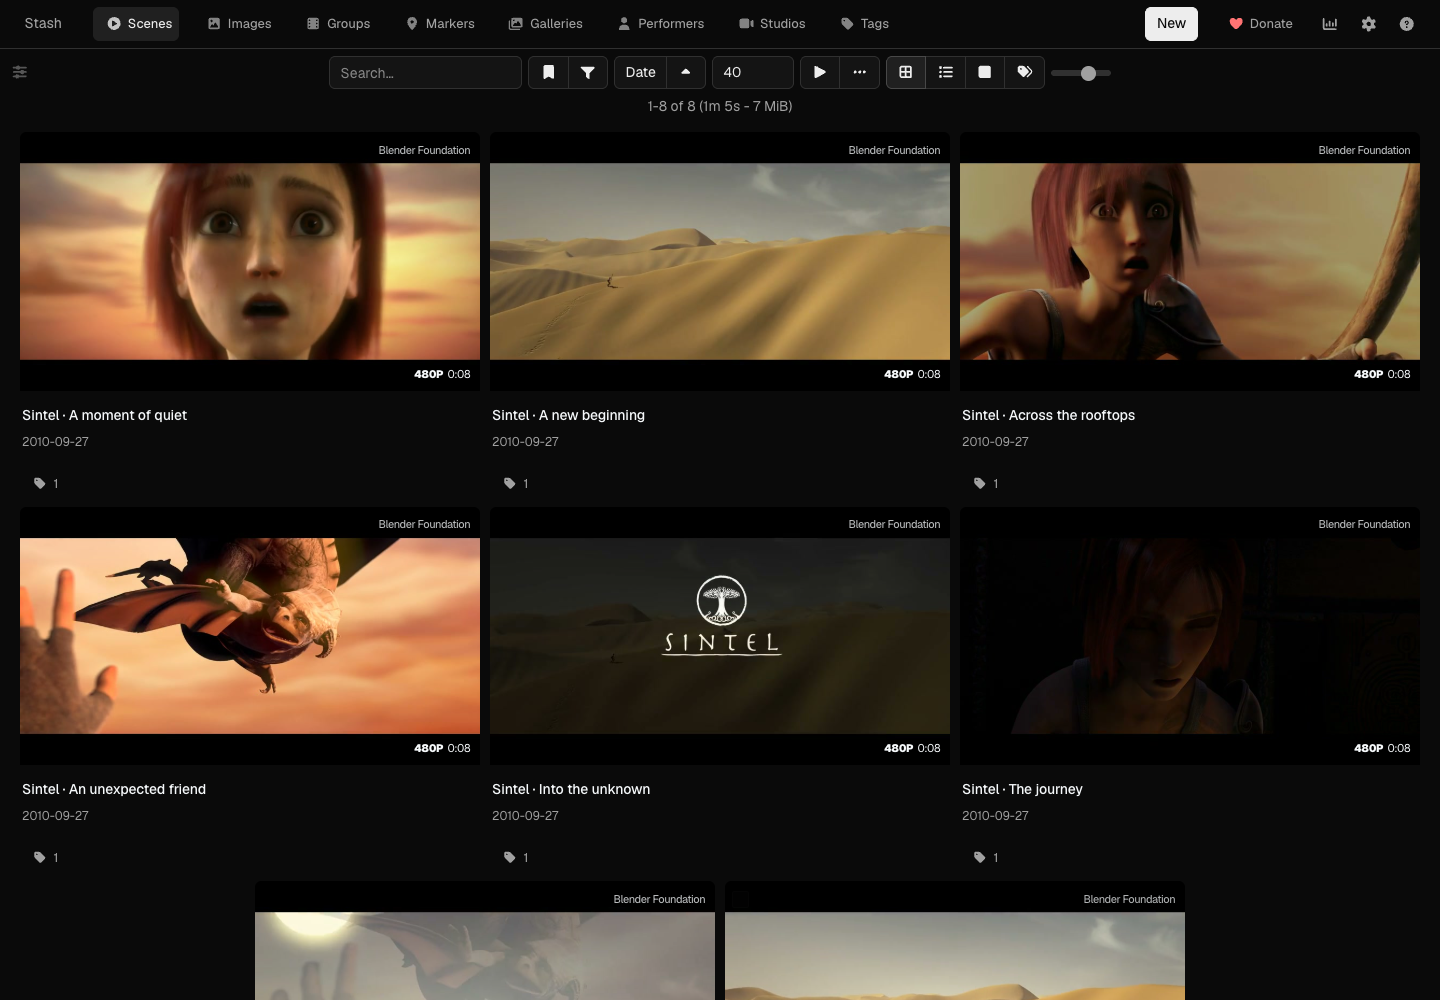
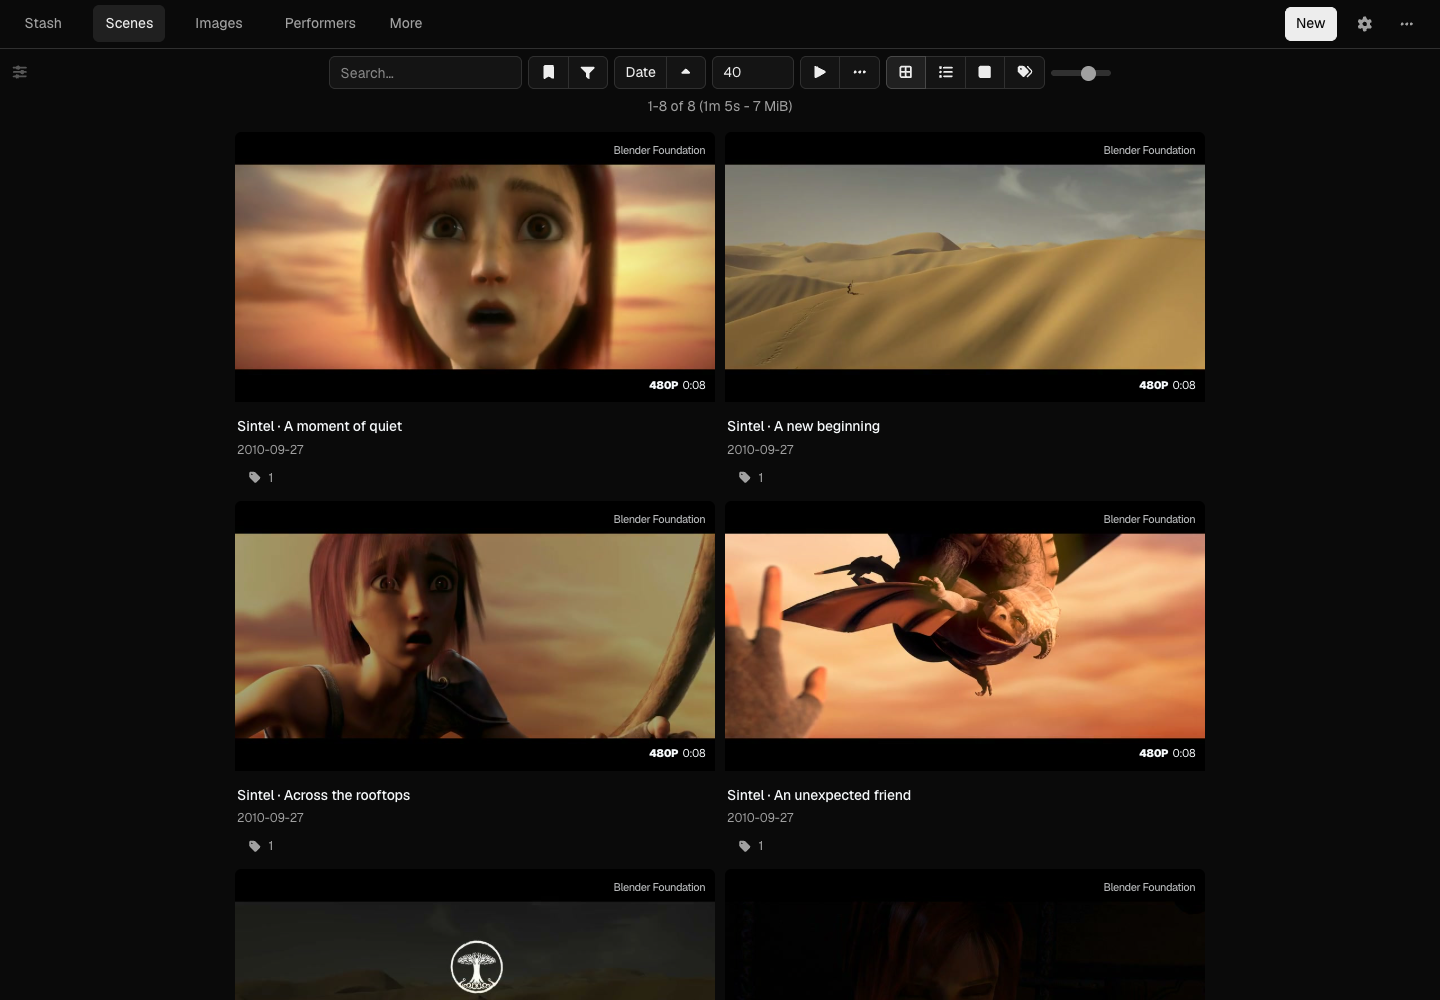
feat: simplify native navigation and focus scene playback

diff --git a/tests/browser.js b/tests/browser.js
@@ -29,7 +29,45 @@ export default async function testTheme(page, options) {
     check('local font decoded', await page.evaluate(() => document.fonts.check('14px "Stash Geist"')));
     const card = await colors('.scene-card');
     check('cards have no chrome', card.background === 'rgba(0, 0, 0, 0)' && card.border === '0px', card);
+    const emptyMetadataGap = await page.locator('.scene-card').first().evaluate(card => {
+      const date = card.querySelector('.scene-card__date').getBoundingClientRect();
+      const tags = card.querySelector('.card-popovers').getBoundingClientRect();
+      return tags.top - date.bottom;
+    });
+    check('empty metadata does not reserve space', emptyMetadataGap <= 12, emptyMetadataGap);
     check('desktop has no horizontal overflow', await noOverflow());
+    const navigation = page.locator('.minimal-navigation');
+    check('primary native navigation visible', await navigation.getByRole('link', { name: 'Scenes', exact: true }).isVisible()
+      && await navigation.getByRole('link', { name: 'Images', exact: true }).isVisible()
+      && await navigation.getByRole('link', { name: 'Performers', exact: true }).isVisible());
+    await navigation.getByRole('button', { name: 'More', exact: true }).click();
+    for (const name of ['Groups', 'Markers', 'Galleries', 'Studios', 'Tags']) {
+      check(name + ' remains available', await navigation.getByRole('link', { name, exact: true }).isVisible());
+    }
+    await navigation.getByRole('link', { name: 'Tags', exact: true }).click();
+    await page.waitForURL(url => url.pathname === '/tags');
+    check('More links use native routing', page.url().split('?')[0].endsWith('/tags'));
+    await page.goto(options.baseURL + '/scenes?z=2');
+    await page.locator('.scene-card').first().waitFor();
+    const utilities = page.locator('.navbar-buttons');
+    await utilities.getByRole('button', { name: 'More actions', exact: true }).click();
+    check('secondary utility actions visible', await utilities.getByRole('button', { name: 'Help', exact: true }).isVisible()
+      && await utilities.getByRole('button', { name: 'Statistics', exact: true }).isVisible()
+      && await utilities.getByRole('button', { name: 'Donate', exact: true }).isVisible());
+    await utilities.getByRole('button', { name: 'Statistics', exact: true }).click();
+    await page.waitForURL(url => url.pathname === '/stats');
+    check('Statistics uses native routing', page.url().split('?')[0].endsWith('/stats'));
+    for (const [name, route, more] of [['Images', '/images', false], ['Performers', '/performers', false],
+      ['Groups', '/groups', true], ['Markers', '/scenes/markers', true], ['Galleries', '/galleries', true],
+      ['Studios', '/studios', true], ['Tags', '/tags', true]]) {
+      if (more) await navigation.getByRole('button', { name: 'More', exact: true }).click();
+      await navigation.getByRole('link', { name, exact: true }).click();
+      await page.waitForURL(url => url.pathname === route);
+      check(name + ' page remains usable', await navigation.getByRole('button', { name: 'More', exact: true }).isVisible()
+        && await noOverflow());
+    }
+    await page.goto(options.baseURL + '/scenes?z=2');
+    await page.locator('.scene-card').first().waitFor();
     await page.screenshot({ path: options.reportDir + '/' + options.browser + '-library.png' });
     await page.locator('.sort-by-select .dropdown-toggle').click();
     const menu = await colors('.dropdown-menu.show');
@@ -41,13 +79,36 @@ export default async function testTheme(page, options) {
     check('keyboard focus visible', focus.outline === 'solid' && focus.color === 'rgb(82, 168, 255)', focus);
     await page.goto(options.baseURL + '/scenes/' + options.sceneId);
     await page.locator('video').first().waitFor();
+    await page.locator('.vjs-marker-tooltip').waitFor({ state: 'attached' });
     check('native video player remains available', await page.locator('video').count() > 0);
+    await page.getByRole('button', { name: 'Show scene details', exact: true }).waitFor();
+    check('scene details start collapsed', await page.locator('.scene-tabs').isHidden()
+      && await page.locator('.scene-player-container.expanded').count() === 1);
+    await page.getByRole('button', { name: 'Show scene details', exact: true }).click();
+    check('native detail panel can be reopened', await page.locator('.scene-tabs').isVisible());
+    await page.getByRole('button', { name: 'Hide scene details', exact: true }).click();
+    check('native detail panel closes', await page.locator('.scene-tabs').isHidden());
+    await page.locator('.vjs-big-play-button').click();
+    await page.waitForFunction(() => { const video = document.querySelector('video'); return video && !video.paused && video.currentTime > 0; });
+    check('native playback starts with details collapsed', await page.locator('.scene-tabs').isHidden());
+    await page.locator('.vjs-play-control').click();
     check('detail page has no horizontal overflow', await noOverflow());
     await page.screenshot({ path: options.reportDir + '/' + options.browser + '-detail.png' });
+    await page.goto(options.baseURL + '/scenes?z=2');
+    await page.locator('.scene-card').first().waitFor();
+    await page.locator('.scene-card .card-section-title').first().click();
+    await page.getByRole('button', { name: 'Show scene details', exact: true }).waitFor();
+    check('details collapse after native SPA navigation', await page.locator('.scene-tabs').isHidden());
+    await page.locator('.vjs-marker-tooltip').waitFor({ state: 'attached' });
     await page.goto(options.baseURL + '/settings?tab=plugins');
     await page.getByText('Stash Minimal', { exact: true }).first().waitFor();
     check('package appears in native settings', await page.getByText('Stash Minimal', { exact: true }).count() > 0);
     check('settings has no horizontal overflow', await noOverflow());
+    for (const tab of ['Interface', 'Tasks', 'System']) {
+      await page.getByRole('tab', { name: tab, exact: true }).click();
+      await page.getByRole('tabpanel', { name: tab, exact: true }).waitFor();
+      check(tab + ' settings remain usable', await noOverflow());
+    }
     await page.setViewportSize({ width: 390, height: 844 });
     await page.goto(options.baseURL + '/scenes?z=2');
     await page.locator('.scene-card').first().waitFor();
@@ -59,7 +120,18 @@ export default async function testTheme(page, options) {
     await page.locator('.navbar-collapse.show').waitFor();
     check('mobile navigation opens', await page.locator('.navbar-collapse.show').count() === 1);
     check('open mobile navigation has no overflow', await noOverflow());
-    await page.locator('.navbar-toggler').click();
+    check('mobile primary pages visible', await navigation.getByRole('link', { name: 'Scenes', exact: true }).isVisible());
+    await navigation.getByRole('button', { name: 'More', exact: true }).click();
+    check('mobile secondary pages visible', await navigation.getByRole('link', { name: 'Studios', exact: true }).isVisible());
+    await navigation.getByRole('link', { name: 'Studios', exact: true }).click();
+    await page.waitForURL(url => url.pathname === '/studios');
+    check('mobile More links work', page.url().split('?')[0].endsWith('/studios'));
+    await page.goto(options.baseURL + '/scenes/' + options.sceneId);
+    await page.getByRole('button', { name: 'Show scene details', exact: true }).waitFor();
+    check('mobile details start collapsed', await page.locator('.scene-tabs').isHidden());
+    await page.getByRole('button', { name: 'Show scene details', exact: true }).click();
+    check('mobile details remain accessible', await page.locator('.scene-tabs').isVisible());
+    check('mobile detail has no overflow', await noOverflow());
     await page.emulateMedia({ reducedMotion: 'reduce' });
     const duration = await page.locator('.btn').first().evaluate(el => getComputedStyle(el).transitionDuration);
     check('respects reduced motion', duration === '0s', duration);
@@ -67,6 +139,8 @@ export default async function testTheme(page, options) {
     return { browser: options.browser, passed: true, results };
   } catch (error) {
     await page.screenshot({ path: options.reportDir + '/' + options.browser + '-failure.png' });
-    return { browser: options.browser, passed: false, results, error: error.message, errors };
+    const navigation = await page.locator('.minimal-navigation').evaluateAll(items => items.map(el => ({ display: getComputedStyle(el).display,
+      children: [...el.querySelectorAll('a,button,.navbar-nav')].map(child => ({ tag: child.tagName, text: child.textContent, display: getComputedStyle(child).display })) })));
+    return { browser: options.browser, passed: false, results, url: page.url(), error: error.message, errors, navigation };
   }
 }

diff --git a/plugins/stash-minimal/minimal.css b/plugins/stash-minimal/minimal.css
@@ -54,6 +54,30 @@ hr, .border, .border-bottom, .border-top { border-color: var(--minimal-border) !
 .top-nav .btn.active { background: var(--minimal-hover); color: var(--minimal-text); }
 .top-nav .navbar-toggler { color: var(--minimal-text); border: 0; }
 .nav-menu-icon { opacity: .8; }
+.top-nav .navbar-collapse .minimal-navigation > .navbar-nav { display: flex; gap: 4px; align-items: center; }
+.top-nav .navbar-collapse > .navbar-nav { display: none !important; }
+.top-nav .navbar-buttons .nav-utility { display: flex; }
+.minimal-navigation .nav-link { width: auto; max-width: none; flex-basis: auto; }
+.minimal-navigation .nav-link .btn {
+  padding: 8px 12px !important;
+  min-height: 36px;
+  display: flex !important;
+  flex-direction: row !important;
+  gap: 8px;
+  font-size: 14px;
+}
+.minimal-navigation .navbar-nav > .nav-link .nav-menu-icon { display: none !important; }
+.minimal-navigation .dropdown-menu .nav-link { width: 100%; }
+.minimal-navigation .dropdown-menu .nav-link .btn { width: 100%; justify-content: flex-start !important; }
+.minimal-navigation .dropdown-menu .nav-menu-icon { margin: 0 !important; width: 14px; height: 14px; }
+.minimal-nav-more > .btn { text-decoration: none; }
+.minimal-nav-more .dropdown-item, .minimal-utility-menu .dropdown-item { padding: 0; }
+.minimal-utility-menu .dropdown-menu { min-width: 180px; }
+.minimal-utility-menu .dropdown-menu .nav-utility { display: block; }
+.minimal-utility-menu .dropdown-menu .btn { display: flex; align-items: center; gap: 10px; width: 100%; padding: 8px 10px; }
+.minimal-utility-menu > .dropdown-toggle::after { display: none; }
+.top-nav .navbar-buttons { align-items: center; gap: 4px; }
+.top-nav .navbar-buttons > .mr-2 { margin-right: 4px !important; }
 
 .btn {
   border-radius: var(--minimal-radius);
@@ -191,6 +215,8 @@ div.dropdown-menu .dropdown-item.active, div.react-select__menu .react-select__o
 .grid-card .card-section { padding: 10px 2px 0; }
 .grid-card .card-section-title { color: var(--minimal-text); font-size: 14px; line-height: 1.4; font-weight: 500; letter-spacing: -.01em; }
 .grid-card .card-section-title:hover { color: #fff; }
+.grid-card .card-section-title { margin: 0 0 4px; }
+.grid-card .scene-card__details, .grid-card .scene-marker-card__details, .grid-card .gallery-card__details { margin-bottom: 0; }
 .grid-card hr { display: none; }
 .grid-card .scene-card__date, .grid-card .scene-card__details, .grid-card .scene-card__description,
 .grid-card .file-path { color: var(--minimal-muted); font-size: 12px; }
@@ -207,6 +233,25 @@ div.dropdown-menu .dropdown-item.active, div.react-select__menu .react-select__o
 .badge-secondary, .tag-item, .tag-item a { background: var(--minimal-hover); color: var(--minimal-text); }
 .detail-body, .detail-header .detail-header-info { color: var(--minimal-text); }
 .detail-header .detail-header-image { background: transparent; }
+.scene-tabs.collapsed { display: none; }
+.scene-tabs { background: var(--minimal-bg); padding: 16px 24px; }
+.scene-tabs h3 { font-size: 22px; line-height: 1.25; margin-top: 20px; }
+.scene-subheader { font-size: 13px; color: var(--minimal-muted); }
+.scene-toolbar { padding: 12px 0; border-bottom: 1px solid var(--minimal-border); }
+.studio-logo .studio-name { font-size: 14px; font-weight: 500; }
+.scene-tabs .tab-content { padding-top: 16px; }
+.scene-divider.minimal-scene-divider { position: absolute; top: 64px; left: 0; z-index: 20; height: auto; width: auto; }
+.scene-divider.minimal-scene-divider .btn { width: 28px; height: 40px; padding: 0; background: var(--minimal-surface); color: var(--minimal-muted); border: 1px solid var(--minimal-border); border-left: 0; border-radius: 0 6px 6px 0; }
+.scene-divider.minimal-scene-divider .btn:hover { background: var(--minimal-hover); color: var(--minimal-text); }
+.scene-player-container.expanded { width: 100%; max-width: 100%; flex: 1 1 100%; }
+.scene-player-container .video-js { border-radius: 6px; overflow: hidden; }
+.scene-player-container .vjs-control-bar { background: #0a0a0ae6; }
+.scene-player-container .vjs-play-progress { background: #ededed; }
+.scene-player-container .vjs-load-progress { background: #666; }
+.scene-player-container .vjs-volume-level { background: #ededed; }
+.scene-player-container .vjs-big-play-button { width: 64px; height: 64px; line-height: 64px; margin: -32px 0 0 -32px; font-size: 28px; border: 0; background: #0a0a0a99; border-radius: 50%; }
+.scene-player-container .vjs-menu-content { background: var(--minimal-surface); border: 1px solid var(--minimal-border); border-radius: 6px; }
+.scene-player-container .vjs-menu-item.vjs-selected { background: var(--minimal-hover); color: var(--minimal-text); }
 
 .table { color: var(--minimal-text); }
 .table th, .table td, .table thead th { border-color: var(--minimal-border); }
@@ -225,7 +270,18 @@ div.dropdown-menu .dropdown-item.active, div.react-select__menu .react-select__o
 .filtered-list-toolbar input.zoom-slider::-moz-range-track { background: var(--minimal-border); }
 .filtered-list-toolbar input.zoom-slider::-moz-range-thumb { background: var(--minimal-muted); }
 
+@media (min-width: 1200px) {
+  .top-nav .navbar-collapse { overflow: visible; }
+}
+@media (max-width: 1199.98px) {
+  .minimal-navigation .navbar-nav { flex-direction: column; align-items: stretch; }
+  .minimal-navigation .nav-link .btn { width: 100%; justify-content: flex-start !important; min-height: 44px; }
+  .minimal-navigation .dropdown-menu { position: static; box-shadow: none; margin: 4px 0; }
+  .minimal-navigation .dropdown-toggle { min-height: 44px; width: 100%; text-align: left; }
+}
 @media (max-width: 767.98px) {
+  .scene-divider.minimal-scene-divider { top: 12px; }
+  .scene-tabs { padding: 16px; }
   .top-nav .navbar-collapse .btn { min-height: 44px; }
   .filtered-list-toolbar .btn, .pagination .btn { min-height: 40px; }
   .form-control, .custom-select, div.react-select__control { font-size: 16px; }

diff --git a/plugins/stash-minimal/minimal.js b/plugins/stash-minimal/minimal.js
@@ -1,0 +1,84 @@
+(function () {
+  const api = window.PluginApi;
+  const React = api.React;
+  const { Dropdown } = api.libraries.Bootstrap;
+  const { useLocation } = api.libraries.ReactRouterDOM;
+  const h = React.createElement;
+
+  function flatten(children) {
+    return React.Children.toArray(children).flatMap(child =>
+      child.type === React.Fragment ? flatten(child.props.children) : [child]);
+  }
+
+  function Navigation({ children, render, ...props }) {
+    const location = useLocation();
+    const items = flatten(children);
+    const primary = items.filter(child => ['/scenes', '/images', '/performers'].includes(child.props.eventKey));
+    const secondary = items.filter(child => !primary.includes(child));
+    const active = secondary.some(child => location.pathname === child.props.eventKey ||
+      location.pathname.startsWith(child.props.eventKey + '/'));
+    return h('div', { className: 'minimal-navigation' }, render({ ...props, children: [
+      ...primary,
+      secondary.length > 0 && h(Dropdown, { key: 'more', className: 'minimal-nav-more' },
+        h(Dropdown.Toggle, { variant: 'link', className: 'minimal' + (active ? ' active' : ''), id: 'minimal-nav-more' }, 'More'),
+        h(Dropdown.Menu, null, secondary.map(child => h(Dropdown.Item, { as: 'div', key: child.props.eventKey }, child))))
+    ] }));
+  }
+
+  function UtilityMenu({ children, render, ...props }) {
+    const items = flatten(children);
+    const isSecondary = child => child.props.to === '/stats' ||
+      child.props.href === 'https://opencollective.com/stashapp' ||
+      (typeof child.props.href === 'string' && child.props.href.endsWith('/logout')) ||
+      (child.type === api.libraries.Bootstrap.Button && typeof child.props.onClick === 'function');
+    const secondary = items.filter(isSecondary);
+    const primary = items.filter(child => !isSecondary(child));
+
+    function menuItem(child, index) {
+      const inner = React.isValidElement(child.props.children) ? child.props.children : child;
+      const label = inner.props.title;
+      const icon = React.Children.toArray(inner.props.children)[0];
+      const content = React.cloneElement(inner, {}, icon, h('span', null, label));
+      const item = inner === child ? content : React.cloneElement(child, {}, content);
+      return h(Dropdown.Item, { as: 'div', key: index }, item);
+    }
+
+    return render({ ...props, children: [...primary,
+      secondary.length > 0 && h(Dropdown, { key: 'actions', className: 'minimal-utility-menu' },
+        h(Dropdown.Toggle, { variant: 'link', className: 'minimal', 'aria-label': 'More actions', title: 'More actions' },
+          h(api.components.Icon, { icon: api.libraries.FontAwesomeSolid.faEllipsisH })),
+        h(Dropdown.Menu, { align: 'right' }, secondary.map(menuItem)))
+    ] });
+  }
+
+  function SceneFocus({ render, ...props }) {
+    React.useLayoutEffect(() => {
+      props.setCollapsed(true);
+    }, [props.scene.id, props.setCollapsed]);
+    const content = render(props);
+    const children = React.Children.map(content.props.children, child => {
+      if (!React.isValidElement(child)) return child;
+      if (child.props.className?.split(' ').includes('scene-tabs')) {
+        return React.cloneElement(child, { id: 'minimal-scene-details' });
+      }
+      if (child.props.className?.split(' ').includes('scene-divider')) {
+        const toggle = React.cloneElement(child.props.children, {
+          'aria-label': props.collapsed ? 'Show scene details' : 'Hide scene details',
+          'aria-expanded': !props.collapsed,
+          'aria-controls': 'minimal-scene-details',
+          title: props.collapsed ? 'Show scene details' : 'Hide scene details'
+        });
+        return React.cloneElement(child, { className: 'scene-divider minimal-scene-divider' }, toggle);
+      }
+      return child;
+    });
+    return React.cloneElement(content, {}, children);
+  }
+
+  function replace(name, component) {
+    api.patch.instead(name, (...args) => h(component, { ...args[0], render: args[args.length - 1] }));
+  }
+  replace('MainNavBar.MenuItems', Navigation);
+  replace('MainNavBar.UtilityItems', UtilityMenu);
+  replace('ScenePage', SceneFocus);
+})();

diff --git a/site/index.html b/site/index.html
@@ -2,7 +2,7 @@
 <html lang="en">
 <meta charset="utf-8">
 <meta name="viewport" content="width=device-width, initial-scale=1">
-<meta name="description" content="A quiet, compact dark theme for Stash. CSS only, with locally bundled Geist Sans.">
+<meta name="description" content="A minimal Stash interface with compact native menus, focused playback, and locally bundled Geist Sans.">
 <title>Stash Minimal</title>
 <style>
   :root{color-scheme:dark}*{box-sizing:border-box}body{margin:0;background:#0a0a0a;color:#ededed;font:16px/1.65 system-ui,sans-serif}main{max-width:1000px;margin:auto;padding:64px 24px}h1{font-size:clamp(32px,5vw,52px);line-height:1.1;letter-spacing:-.05em;margin:0 0 20px;font-weight:550}h2{font-size:20px;letter-spacing:-.025em;margin:40px 0 12px}p{max-width:620px;color:#a1a1a1}a{color:#ededed;text-underline-offset:4px}nav{display:flex;gap:24px;margin:24px 0 40px;font-size:14px}img{display:block;width:100%;height:auto;border-radius:6px;border:1px solid #303030}code{display:block;overflow-wrap:anywhere;padding:16px;border:1px solid #303030;border-radius:6px;background:#141414;font-size:14px}li{margin:8px 0}.version,footer{font-size:13px;color:#a1a1a1}.mobile{max-width:350px;margin-top:24px}footer{margin-top:48px}a:focus-visible{outline:2px solid #52a8ff;outline-offset:4px}
@@ -10,9 +10,13 @@
 <main>
   <p class="version">Stash Minimal · {{VERSION}}</p>
   <h1>A quieter library.</h1>
-  <p>A minimal dark theme for Stash. Neutral surfaces, compact controls, and locally bundled Geist Sans. CSS only, with your existing Stash controls.</p>
+  <p>A minimal Stash interface. Neutral surfaces, compact native menus, and locally bundled Geist Sans. Scene details start collapsed so playback gets the full available width.</p>
   <nav><a href="https://github.com/quietframe-player/stash-minimal">Source on GitHub</a><a href="stash-minimal.zip">Download theme</a></nav>
   <img src="assets/library.png" alt="Stash Minimal scene grid with public Sintel footage" width="1440" height="1000">
+  <h2>Less interface, more library</h2>
+  <p>Scenes, Images, and Performers stay in the main navigation. More holds the other library pages. Settings and other plugins remain directly accessible, while secondary actions share one menu.</p>
+  <p>A small native React extension changes the layout and scene panel behavior. Stash still owns the routes, filters, editing tools, video player, and keyboard shortcuts.</p>
+  <img src="assets/detail.png" alt="Native Stash playback with the details panel collapsed" width="1440" height="1000" loading="lazy">
   <h2>Install in Stash</h2>
   <ol><li>Open Settings → Plugins → Available Plugins → Add Source.</li><li>Name it Stash Minimal and paste the source URL below.</li><li>Install Stash Minimal, disable your previous theme, and reload.</li></ol>
   <code>https://quietframe-player.github.io/stash-minimal/index.yml</code>

diff --git a/README.md b/README.md
@@ -2,9 +2,16 @@
 
 A quiet, compact dark theme for Stash, inspired by [Vercel Geist](https://vercel.com/geist/introduction).
 
-Neutral surfaces, restrained borders, compact navigation, and locally bundled Geist Sans. Thumbnails carry the scene grid; menus, inputs, and dialogs keep clear boundaries. Stash's existing controls and keyboard shortcuts stay in place.
+Neutral surfaces, restrained borders, and locally bundled Geist Sans. Thumbnails carry the scene grid; menus, inputs, dialogs, and settings share the same design.
 
-CSS only. No JavaScript, external font requests, or separate server.
+The plugin also changes the native interface through Stash's React plugin API:
+
+- Scenes, Images, and Performers stay in the main navigation. Other library pages move into **More**.
+- Settings and other plugins stay directly accessible. Statistics, Help, Donate, and Logout share a compact action menu.
+- Scene details start collapsed, giving the video the full available width. The edge toggle brings the native details and editing tools back.
+- Native routes, filtering, playback, keyboard shortcuts, and configured navigation choices stay intact.
+
+The JavaScript uses Stash's existing React, Bootstrap components, and icons. No extra framework, external font requests, or separate server.
 
 ![Scene grid](site/assets/library.png)
 ![Mobile library](site/assets/mobile.png)
@@ -35,7 +42,7 @@ Add `--apply` to install and enable. Add `--disable-theme Theme-ModernDark` to d
 
 ## Develop
 
-Edit `plugins/stash-minimal/minimal.css`. Build the deterministic package and install source:
+Edit `plugins/stash-minimal/minimal.css` and `minimal.js`. The JavaScript changes native React markup and state through documented component patches. Build the deterministic package and install source:
 
 ```sh
 python3 -B scripts/build.py
